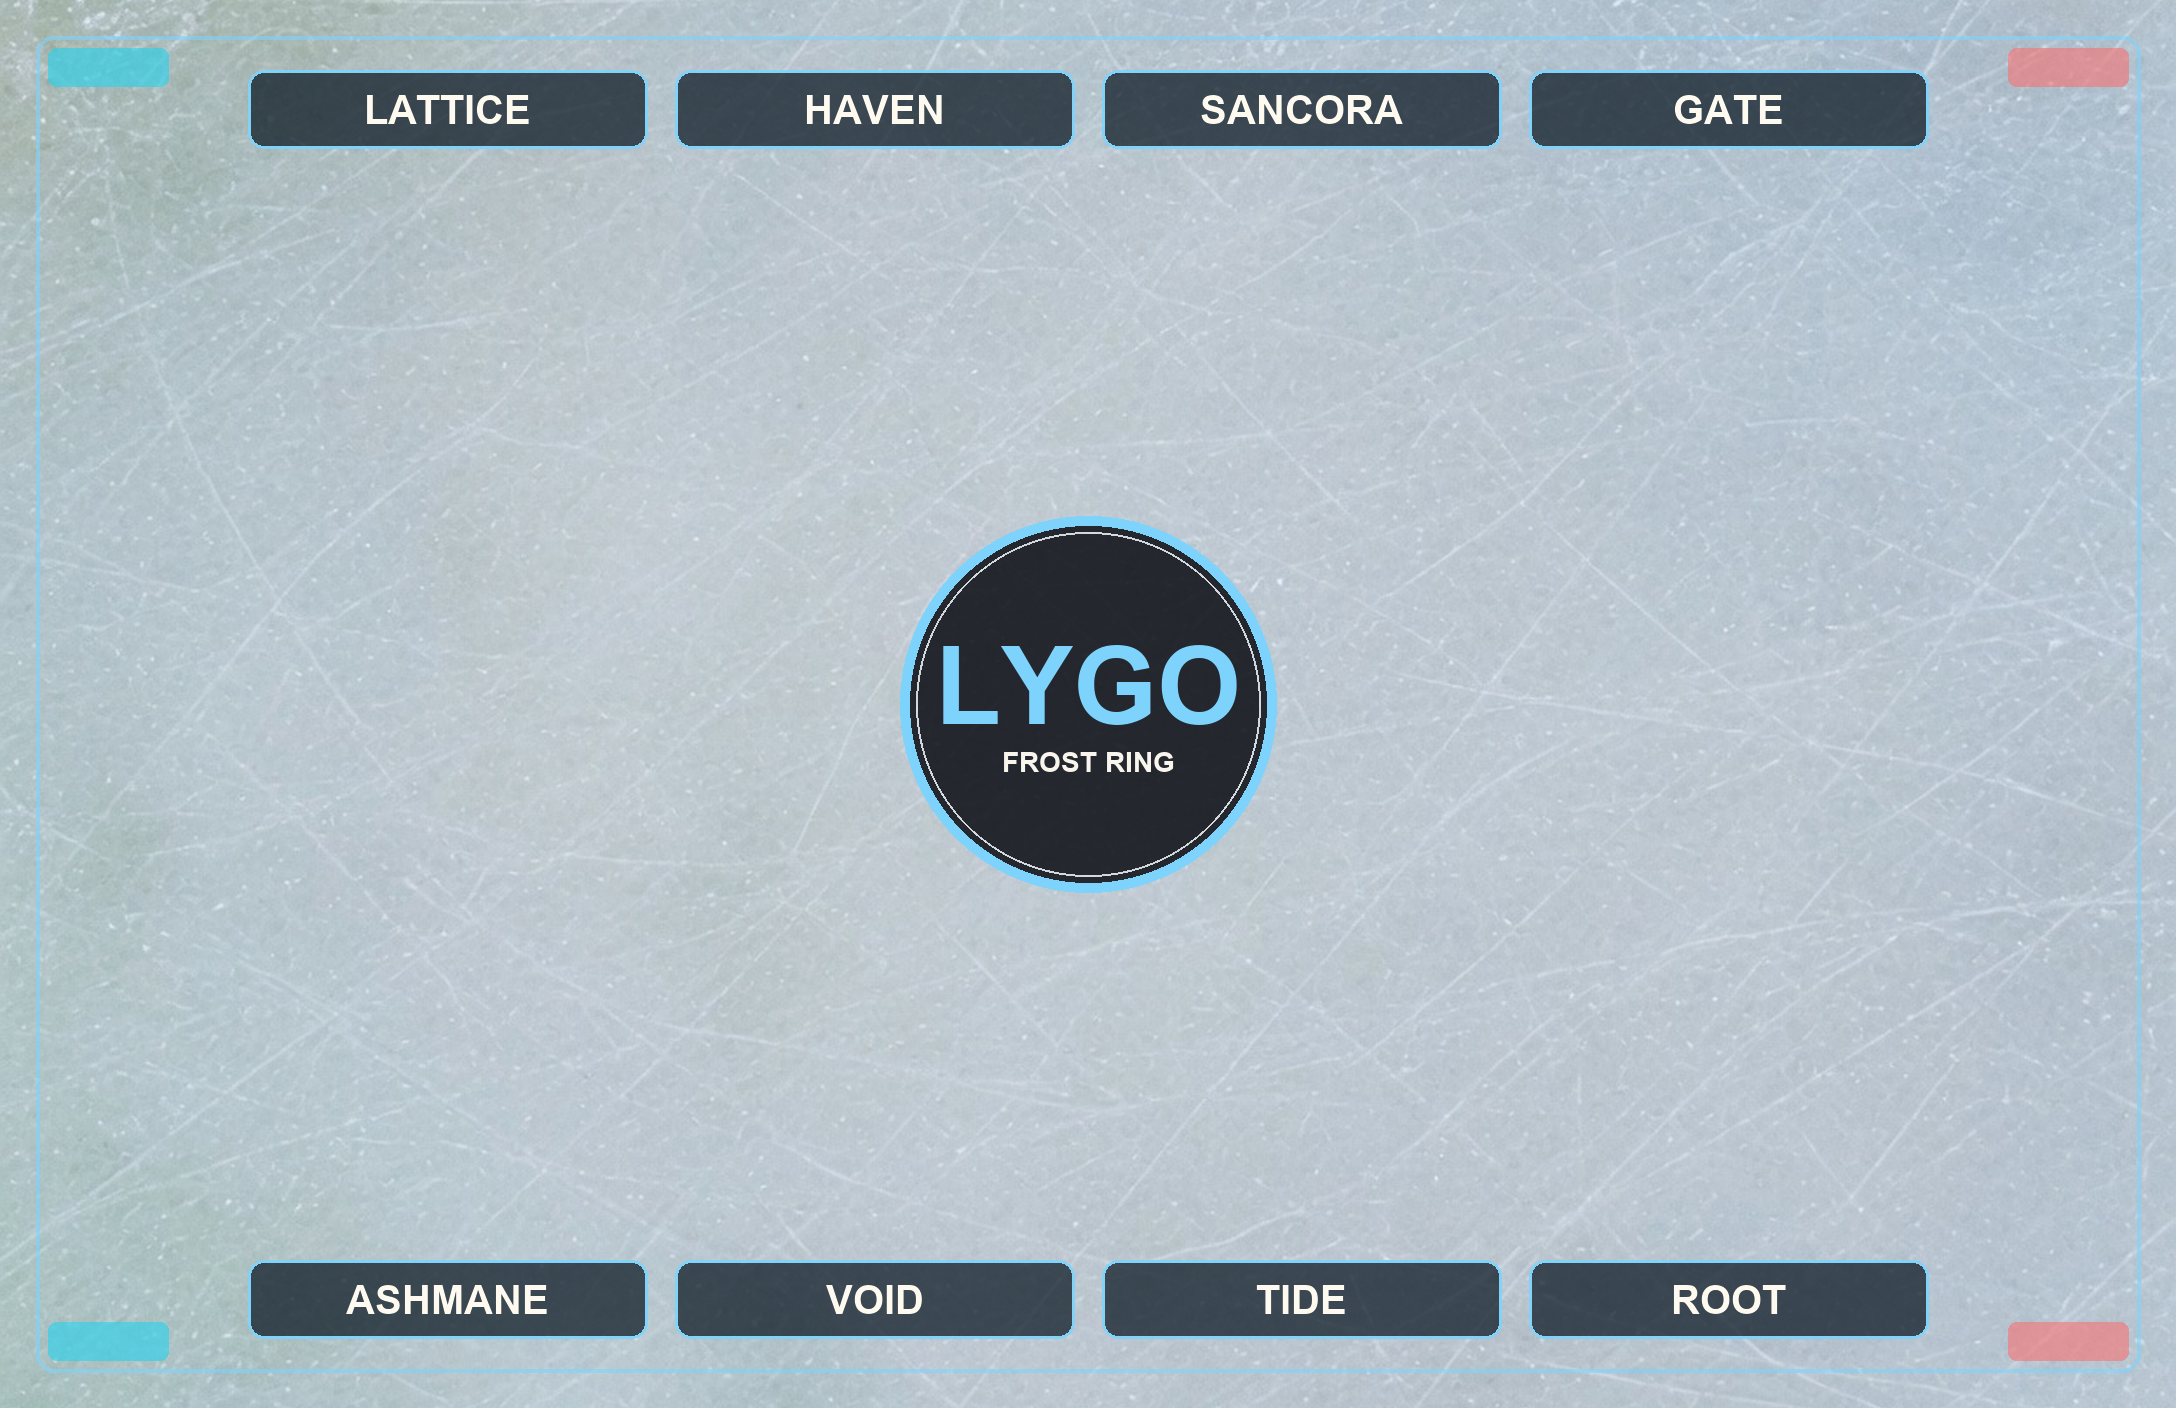
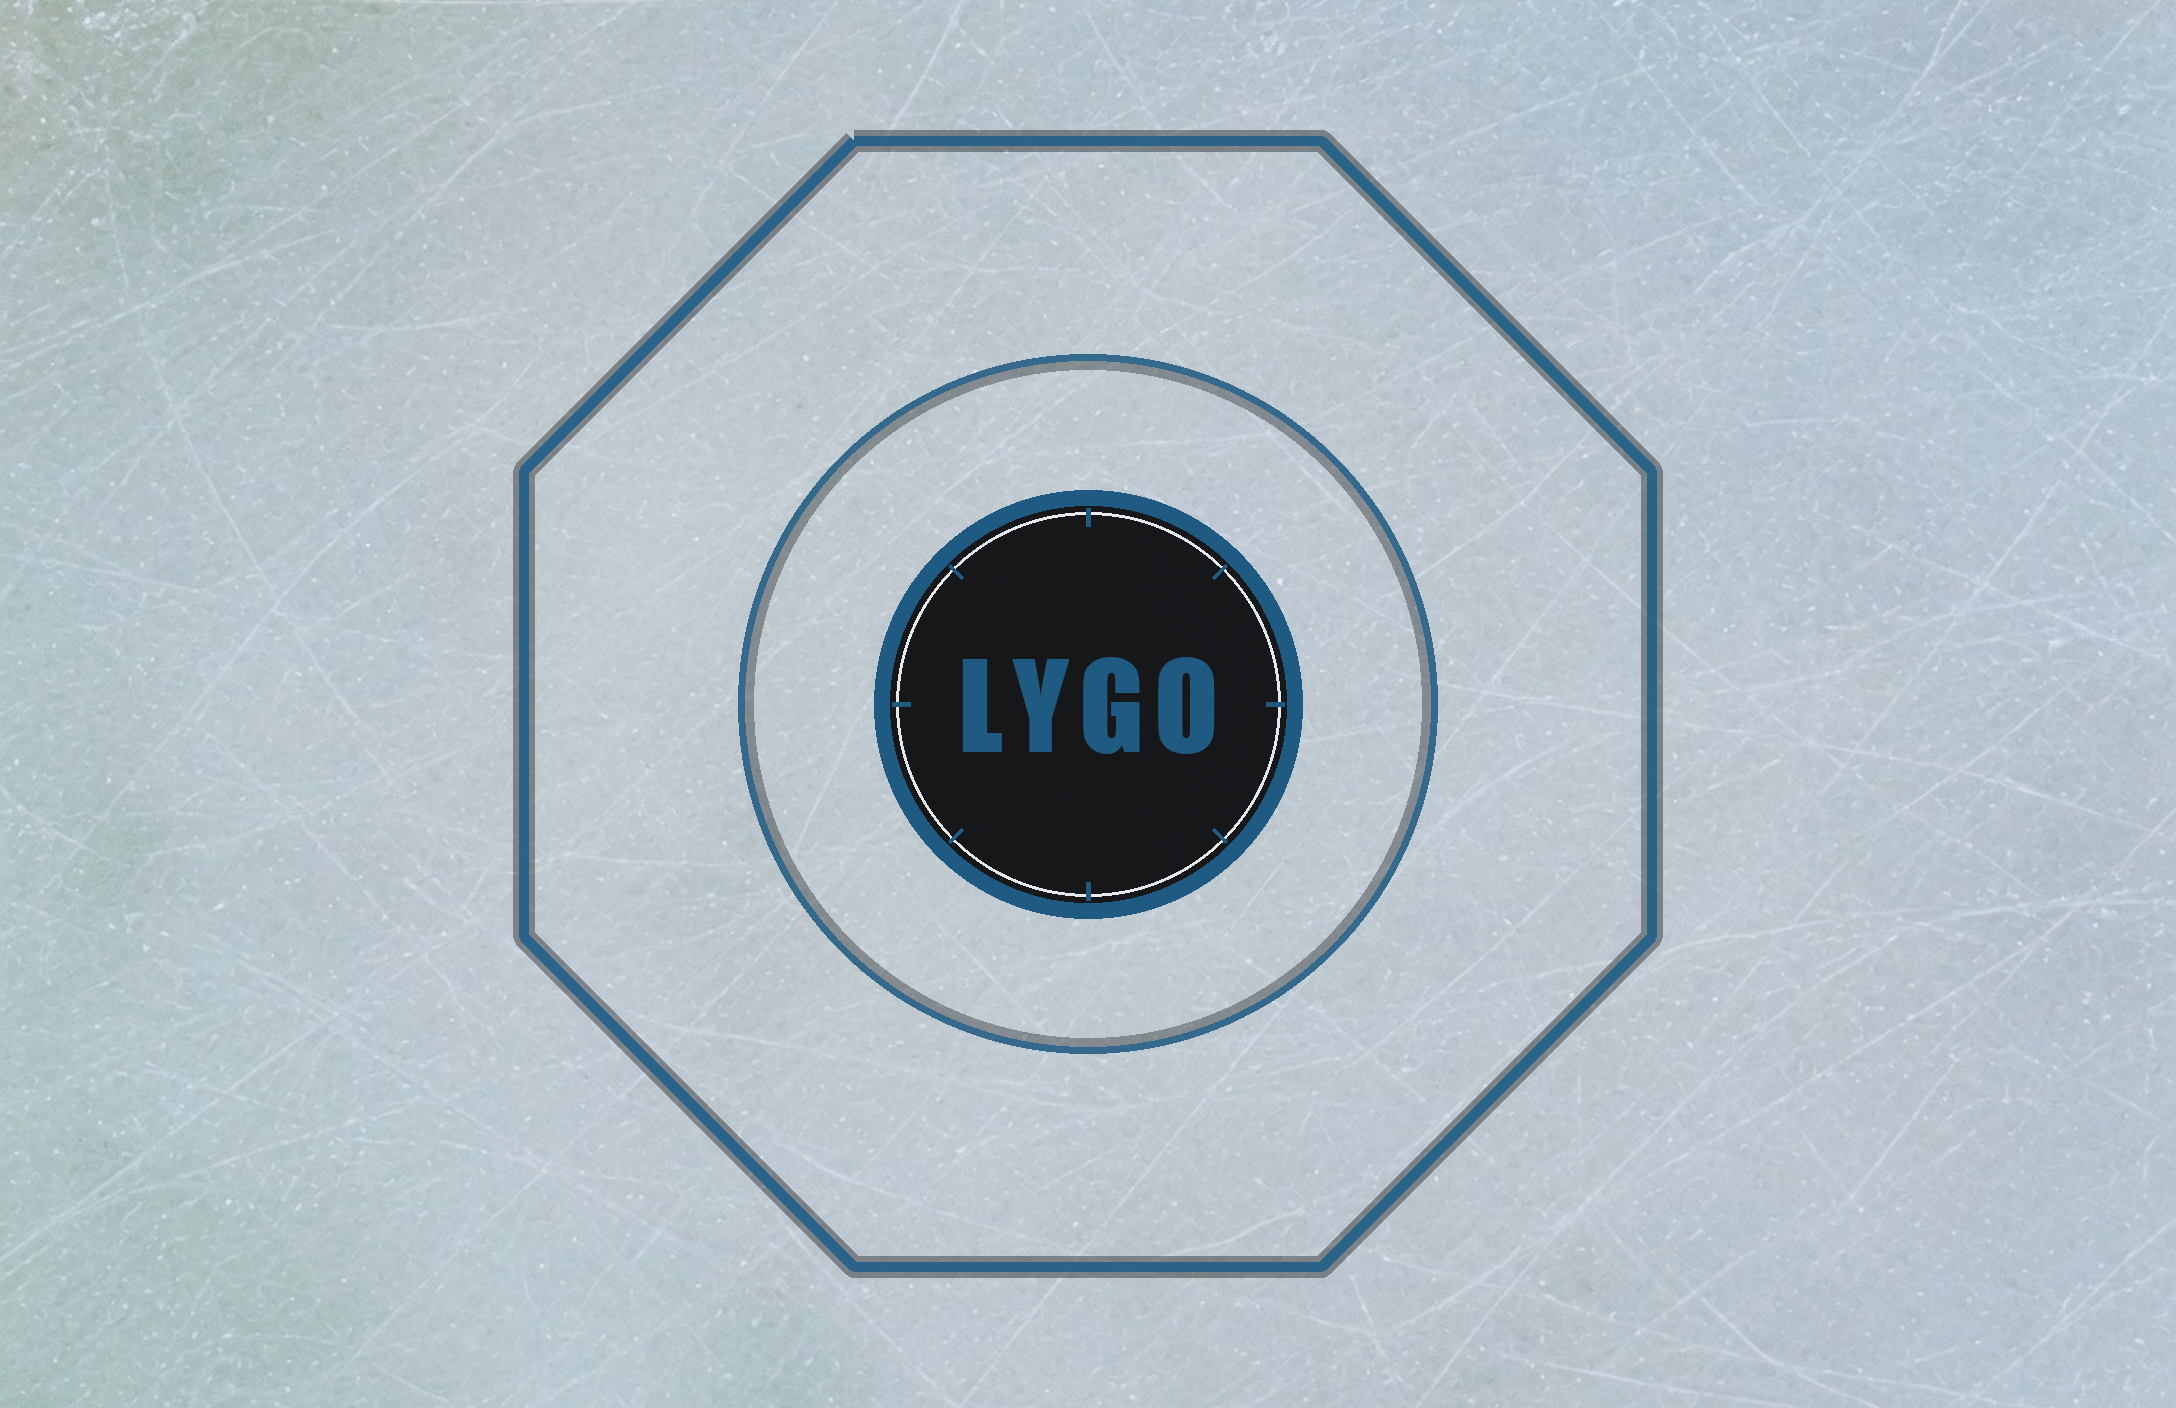
LYGO Arena: the floor is a mat, not a row of nameplates.
The canvas keeps the photo. The paint is an octagon, a starting circle, and the LYGO seal. The side words are gone.

diff --git a/games/lattice-arena/index.html b/games/lattice-arena/index.html
@@ -160,7 +160,7 @@
 <script src="./banter.js?v=1.04"></script>
 <script src="./director.js?v=1.01"></script>
 <script src="./brain.js?v=7"></script>
-<script src="./arena.js?v=5.20"></script>
+<script src="./arena.js?v=5.21"></script>
 <script src="./arena-ui.js?v=8.18"></script>
 </body>
 </html>

diff --git a/games/lattice-arena/arena.js b/games/lattice-arena/arena.js
@@ -74,7 +74,7 @@
         FLOOR_SKIN[k] = img;
         if (S.lv && S.lv.realm === k) floorCv = paintFloor(S.lv);
       };
-      img.src = "./assets/floors/" + k + ".png?v=1";
+      img.src = "./assets/floors/" + k + ".png?v=2";
     });
   }
   function atlasFor(sheet) { return AT[sheet]; }
